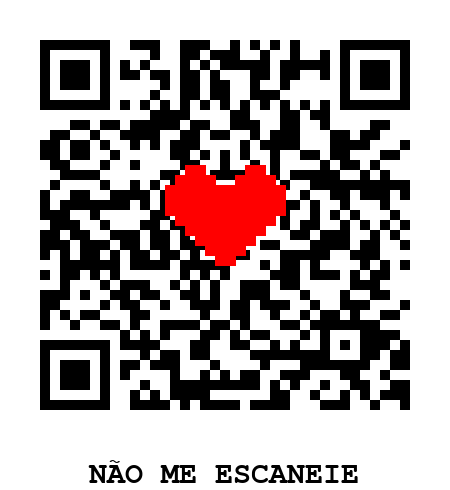
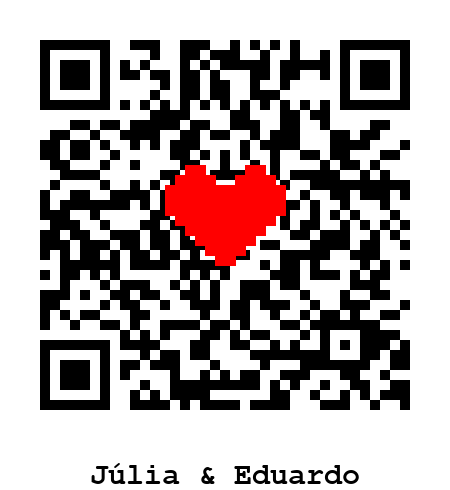
Ajuses qrcode

Changed region(s): [[0.1867, 0.9184, 0.8089, 1.0]]

diff --git a/gerar-qrcode.py b/gerar-qrcode.py
@@ -1,7 +1,7 @@
 import qrcode
 from PIL import Image, ImageDraw, ImageFont
 
-def gerar_qrcode_com_coracao_e_texto(dados, texto="NÃO ME ESCANEIE", tamanho=450, coracao_tamanho=120):
+def gerar_qrcode_com_coracao_e_texto(dados, texto="Júlia & Eduardo", tamanho=450, coracao_tamanho=120):
     qr = qrcode.QRCode(
         version=5,
         error_correction=qrcode.constants.ERROR_CORRECT_H,
